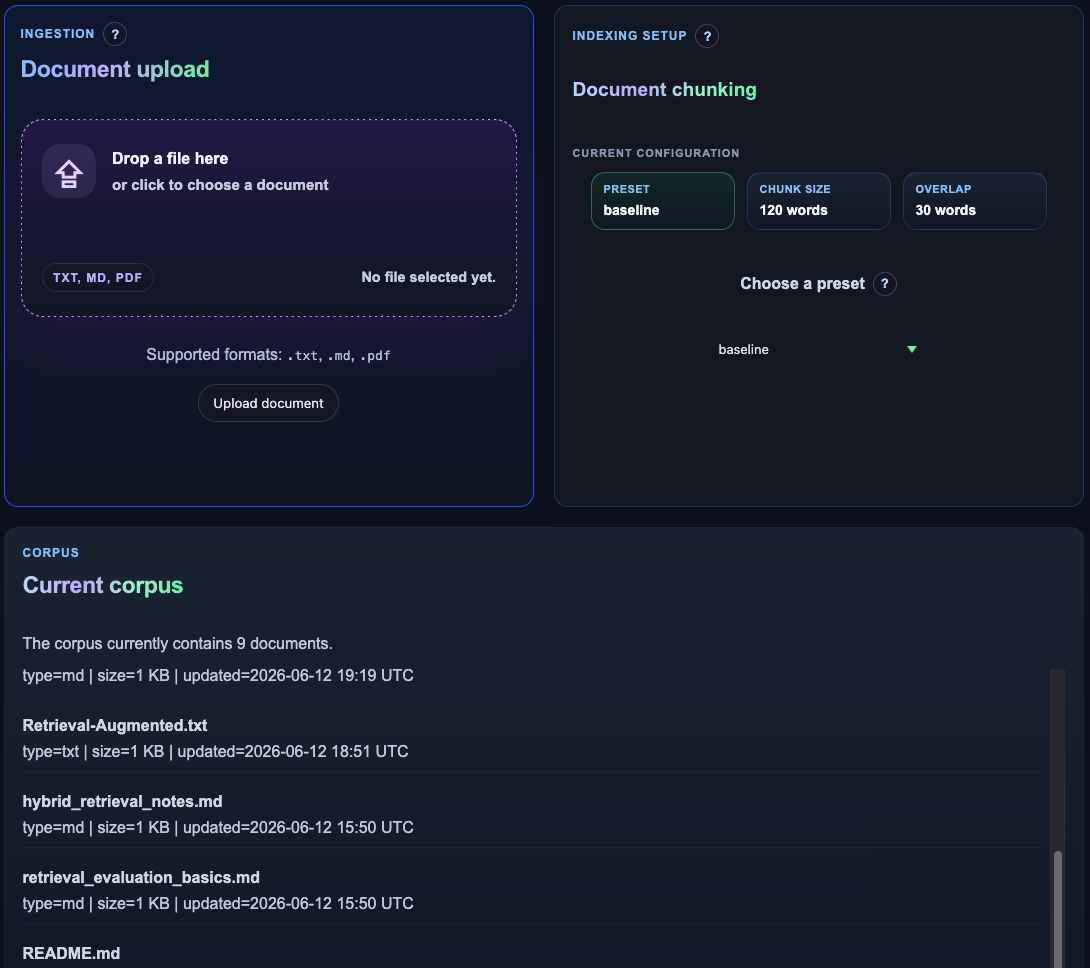
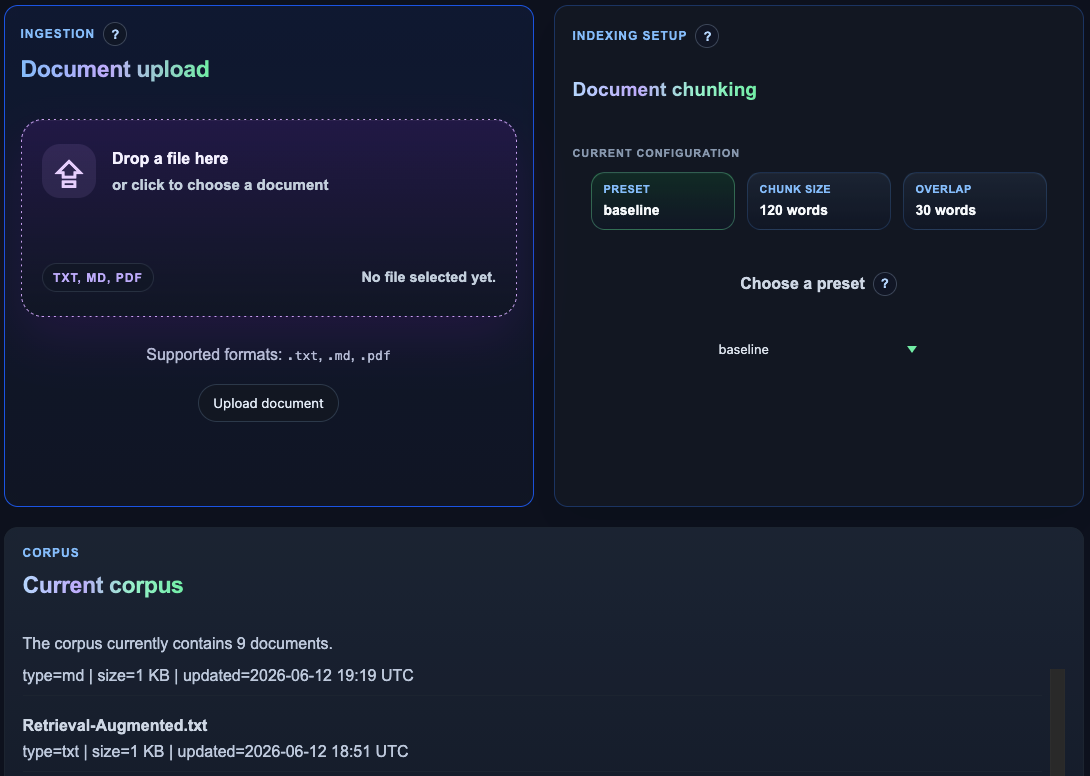
crop documents screenshot for readme layout

diff --git a/README.md b/README.md
@@ -210,16 +210,10 @@ The UI and JSON endpoints use the same retrieval and runtime contract, so the br
 
 ### Runtime And Operations
 
-<table>
-  <tr>
-    <td width="54%" valign="top">
-      <img src="docs/screenshots/desktop/04-system-runtime.png" alt="System runtime status and observability view" width="100%">
-    </td>
-    <td width="42%" valign="top">
-      <img src="docs/screenshots/desktop/05-documents-or-indexing.png" alt="Documents and indexing management view" width="100%">
-    </td>
-  </tr>
-</table>
+<p align="center">
+  <img src="docs/screenshots/desktop/04-system-runtime.png" alt="System runtime status and observability view" width="48%">
+  <img src="docs/screenshots/desktop/05-documents-or-indexing.png" alt="Documents and indexing management view" width="48%">
+</p>
 
 <p align="center">
   <em>Operational surface for runtime health, indexing lifecycle, and document management.</em>
